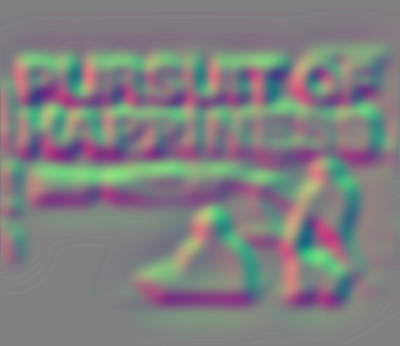
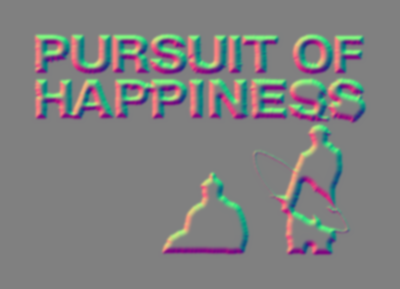
Lastra pulita: solo la scritta e i due surfisti, e una gobba che non esce
Il manifesto aveva dietro pennellate di rullo e un bordo sporco: in rilievo,
con una luce su tutta la lastra, diventavano rumore. stampa.py adesso lo
pulisce (soglia + apertura morfologica, con due eccezioni scritte a mano: la
tavola da surf, recuperata per contatto col surfista, e la pennellata scura
accanto alla figura seduta) e ritaglia il file sul disegno, con un margine.

La gobba non e' piu' un passa-alto della massa sfocata, che attorno a ogni
figura lasciava un anello letto come un contorno fantasma: e' una cupola
dentro ogni sagoma, fatta con la distanza dal bordo, che fuori vale zero.

La grana va a zero: col disegno pulito restava solo un gradino lungo i bordi,
e ogni lettera usciva ripassata due volte.

Claude-Session: https://claude.ai/code/session_01FjnANcQY1nRrzKsotf6svG

diff --git a/stampa.py b/stampa.py
@@ -15,9 +15,24 @@
    SMUSSO e' la larghezza del bordo dell'impronta: il fianco della lettera.
    Stretto = carta rigida, spigolo netto. Largo = carta morbida, bordo
    tondo. E' l'unica manopola che cambia davvero l'aria del risultato.
+
+   SOLO LA SCRITTA E I DUE SURFISTI. Il manifesto ha dietro pennellate di
+   rullo e un bordo sporco: in rilievo diventano rumore, una carta
+   grattata invece di una stampa. pulita() le toglie e lascia le sagome
+   piene. Le sagome sono nere piene, le pennellate grigie e sottili: una
+   soglia e un'apertura morfologica le separano quasi da sole. Restano due
+   eccezioni, scritte a mano qui sotto:
+     - la tavola del surfista e' un contorno sottile come una pennellata,
+       e l'apertura la cancellerebbe: si recupera a parte, per contatto col
+       surfista che la tiene;
+     - accanto alla figura seduta la pennellata e' scura quasi quanto lei:
+       li' la soglia sale.
+   Il file esce ritagliato sul disegno, con un margine: la misura scritta
+   in cape-dust.js (lastraDisegno) e' presa sul disegno, non sul file.
 """
 import numpy as np, os, sys
 from PIL import Image
+from scipy import ndimage as ndi
 from scipy.ndimage import gaussian_filter
 
 QUI   = os.path.dirname(os.path.abspath(__file__))
@@ -25,21 +40,80 @@ SRC   = os.path.join(QUI, 'stampa-src.jpg')
 LARGO = 1600
 
 SMUSSO  = 3.2    # larghezza del bordo dell'impronta, in px del file grande
-GRANA   = 0.55   # quanta della grana del rullo resta nel rilievo
-S_GOBBA = 26.0   # larghezza della gonfiatura sotto le masse
-ALTA    = 2.5    # via il piedistallo (vedi gobba.py)
-PIENO   = 0.030  # pendenza che riempie gli otto bit
+GRANA   = 0.0    # quanta della grana del rullo resta nel rilievo. A zero da
+                 # quando il disegno e' pulito: senza grana da conservare, restava
+                 # solo un gradino lungo i bordi, e in luce radente ogni lettera
+                 # usciva ripassata due volte, come a matita
+S_GOBBA = 26.0   # quanto e' largo il fianco della cupola, dal bordo verso dentro
+PIENO   = 0.2    # pendenza che riempie gli otto bit
 
-def inchiostro(box=None):
+MARGINE = 110    # aria attorno al disegno, in px della sorgente: la lastra
+                 # deve finire su carta liscia, o il bordo del file si legge
+                 # in luce radente come una riga dritta
+
+def disco(r):
+    y, x = np.ogrid[-r:r + 1, -r:r + 1]
+    return x * x + y * y <= r * r
+
+def pulita(ink):
+    """Le sagome piene (scritta, figura seduta, surfista con la tavola),
+       senza le pennellate del fondo ne' il bordo. Coordinate della
+       sorgente 1179x1022: se cambi manifesto, questi numeri non valgono."""
+    pieno = ink > 0.6
+    seduto = np.zeros_like(pieno); seduto[600:900, 380:760] = True
+    pieno = np.where(seduto, ink > 0.8, pieno)
+
+    aperto = ndi.binary_opening(pieno, structure=disco(6))
+    lab, n = ndi.label(aperto)
+    tieni = np.zeros(n + 1, bool)
+    for i, sl in enumerate(ndi.find_objects(lab), 1):
+        area = (lab[sl] == i).sum()
+        h = sl[0].stop - sl[0].start; w = sl[1].stop - sl[1].start
+        # fra la scritta (sopra 470) e le figure (sotto 610) ci sono solo pennellate
+        fascia = sl[0].start > 470 and sl[0].stop < 610
+        if area > 1500 and h > 25 and w / h < 3.5 and not fascia:
+            tieni[i] = True
+    sagome = tieni[lab]
+
+    # i bordi ruvidi delle lettere tornano, le pennellate attaccate no
+    m = sagome.copy()
+    for _ in range(3):
+        m = ndi.binary_dilation(m) & pieno
+
+    # la tavola: il contorno sottile attaccato al surfista
+    box = np.zeros_like(pieno); box[552:830, 750:1075] = True
+    lf, _ = ndi.label((ink > 0.5) & box)
+    ids = np.unique(lf[sagome & box]); ids = ids[ids > 0]
+    tavola = np.isin(lf, ids)
+    tavola[676:712, 750:808] = False      # l'orizzonte che la attraversa
+    m |= tavola
+
+    # i buchini dentro le lettere: in rilievo sarebbero crateri
+    buchi = ndi.binary_fill_holes(m) & ~m
+    lb, nb = ndi.label(buchi)
+    area = ndi.sum(buchi, lb, range(1, nb + 1))
+    m |= np.isin(lb, np.where(area < 500)[0] + 1)
+    return m
+
+def inchiostro():
     im = Image.open(SRC).convert('L')
-    if box: im = im.crop(box)
-    a = im.resize((LARGO, int(round(LARGO * im.height / im.width))), Image.LANCZOS)
-    ink = 1.0 - np.asarray(a).astype(np.float32) / 255.0
-    # la carta non e' mai bianca pura in una scansione: si toglie il fondo
-    return np.clip((ink - 0.06) / 0.88, 0, 1)
+    ink = 1.0 - np.asarray(im).astype(np.float32) / 255.0
+    # il margine puo' uscire dalla sorgente (a sinistra il disegno e' a 61 px
+    # dal bordo): fuori e' carta, quindi si aggiunge carta
+    m = np.pad(pulita(ink), MARGINE)
+    ys, xs = np.where(m)
+    x0 = xs.min() - MARGINE; x1 = xs.max() + 1 + MARGINE
+    y0 = ys.min() - MARGINE; y1 = ys.max() + 1 + MARGINE
+    # quanta parte dell'immagine e' disegno: cape-dust.js misura la lastra
+    # sul disegno, non sul margine (lastraDisegno)
+    print('disegno %.3f x %.3f dell\'immagine' % ((xs.max() + 1 - xs.min()) / (x1 - x0),
+                                               (ys.max() + 1 - ys.min()) / (y1 - y0)))
+    m = Image.fromarray((m[y0:y1, x0:x1] * 255).astype(np.uint8))
+    a = m.resize((LARGO, int(round(LARGO * m.height / m.width))), Image.LANCZOS)
+    return np.asarray(a).astype(np.float32) / 255.0
 
-def scrivi(nome, box=None):
-    ink = inchiostro(box)
+def scrivi(nome):
+    ink = inchiostro()
     H, W = ink.shape
 
     # ——— la lastra: l'inchiostro alzato, col suo smusso ———
@@ -50,10 +124,17 @@ def scrivi(nome, box=None):
     Image.fromarray(np.clip(np.rint(mappa * 255), 0, 255).astype(np.uint8)) \
          .save(os.path.join(QUI, nome + '.png'), optimize=True)
 
-    # ——— la gobba: la gonfiatura larga sotto le masse ———
-    massa = gaussian_filter(ink, S_GOBBA, mode='nearest')
-    massa = (massa / max(massa.max(), 1e-6)) ** 0.75
-    massa = massa - gaussian_filter(massa, S_GOBBA * ALTA, mode='nearest')
+    # ——— la gobba: il volume DENTRO le sagome ———
+    # Una cupola in ogni sagoma: sale dal bordo verso l'interno per S_GOBBA
+    # pixel e poi resta piana, e fuori vale zero. Prima era la massa sfocata
+    # meno una sua sfocatura piu' larga, e quel passa-alto lasciava attorno a
+    # ogni figura un anello: finche' la luce era un cerchio attorno al mouse
+    # si notava poco, con una luce su tutta la lastra si leggeva come un
+    # contorno fantasma. Una cupola fatta con la distanza dal bordo non puo'
+    # uscire dalla sagoma, per costruzione.
+    dentro = ndi.distance_transform_edt(ink > 0.5)
+    massa = np.sin(np.minimum(dentro / S_GOBBA, 1.0) * np.pi / 2)
+    massa = gaussian_filter(massa, 1.5, mode='nearest') * 2.0 - 1.0
     w, h = W // 4, H // 4
     p = np.asarray(Image.fromarray(np.clip((massa * 0.5 + 0.5) * 255, 0, 255).astype(np.uint8))
                    .resize((w, h), Image.LANCZOS)).astype(np.float32) / 255.0
@@ -79,6 +160,4 @@ def scrivi(nome, box=None):
              os.path.getsize(os.path.join(QUI, nome + '-nera.png')) // 1024))
     return W, H
 
-im = Image.open(SRC)
-scrivi('stampa')                                                  # tutto: testo + sagome
-scrivi('sagome', (0, int(im.height * .43), im.width, im.height))  # solo la fascia bassa
+scrivi('stampa')

diff --git a/README.md b/README.md
@@ -30,18 +30,29 @@ disegna non e' qui: sta in `cape-dust.js`, nella repo `transition`.
 > suoi punti d'atterraggio sono stati cancellati: stanno nella storia di git,
 > al commit `cade712`.
 
-## Come funziona adesso, in tre righe
+> **2026-09-22, sera — il raduno se ne va anche lui.** I pixel che si
+> radunavano al centro erano un secondo movimento sopra l'espansione, e si
+> vedeva; e il bianco che facevano era granuloso, pieno di buchi neri. Adesso
+> nessun pixel cambia strada.
 
-Una parte dei pixel della dust — la meta' circa — invece di andare dritta per
-sempre riceve una **destinazione** dentro un disco al centro dello schermo. Si
-radunano, si addossano, e la loro luce sommata satura in bianco pieno: e' cosi'
-che nasce la pagina su cui la stampa viene impressa. Chi va piu' vicino al
-centro arriva prima, quindi il bianco non compare, **fiorisce** dal mezzo verso
-fuori. La goffratura si disegna subito dopo di loro, nello stesso fotogramma e
-nello stesso contesto, perche' e' un'**ombra** e un'ombra ha bisogno di
-qualcosa sotto su cui posarsi.
+## Come funziona adesso
 
-Tutte le manopole stanno in cima a `cape-dust.js`, sotto `posa*` e `lastra*`.
+Nessun diamante cambia strada. Quelli che in un certo istante stanno dentro
+una forma al centro dello schermo — una superellisse, un'ellisse un po'
+squadrata — si **gonfiano e si accendono** finche' si fondono in bianco
+pieno; verso fuori si sfaldano, perche' ognuno ha la sua soglia sorteggiata.
+La forma parte da un punto e si allarga, quindi il bianco **fiorisce** dal
+mezzo. Sotto di loro c'e' una carta bianca che tappa i buchi, solo dove sono
+gia' fusi.
+
+Dentro quel bianco la stampa si **incide a pressione**: compare tutta
+insieme, prima appena accennata, poi sempre piu' profonda. Si legge sempre
+tutta, per una luce radente che gira piano; il mouse ci aggiunge la sua luce
+e la inclina di qualche grado. Alla fine il bianco si allarga fino ai bordi e
+la lastra torna piatta.
+
+Mentre succede, l'espansione non si ferma: rallenta. Tutte le manopole stanno
+in cima a `cape-dust.js`, sotto `lento*`, `bianco*`, `pieno*` e `lastra*`.
 
 ## I file
 
@@ -51,7 +62,7 @@ Tutte le manopole stanno in cima a `cape-dust.js`, sotto `posa*` e `lastra*`.
 | `stampa-gobba.png` | la PENDENZA del volume, gia' derivata, a un quarto di lato |
 | `stampa-nera.png` | la stampa piatta, se un domani serve senza rilievo |
 | `stampa-src.jpg` | il manifesto sorgente |
-| `stampa.py` | rigenera le tre immagini dal manifesto |
+| `stampa.py` | pulisce il manifesto e rigenera le tre immagini |
 | `cape-rilievo.js` | il vecchio: due nomi e il surfista. Non piu' caricato |
 | `gobba.py` | il volume del vecchio surfista, da `superficie.png` |
 
@@ -66,6 +77,18 @@ Se le rigeneri, aggiorna quello SHA la' dentro.
 python3 stampa.py     # goffratura, gobba e stampa piatta
 ```
 Serve `pillow`, `numpy`, `scipy`. Se cambi il file sorgente, cambia `SRC`.
+
+Si incide **solo la scritta e i due surfisti**: `pulita()` toglie le
+pennellate del fondo e il bordo sporco, che in rilievo diventano rumore. Lo fa
+con una soglia e un'apertura morfologica, piu' due eccezioni scritte con le
+coordinate della sorgente (la tavola da surf, la pennellata accanto alla
+figura seduta): **con un manifesto nuovo quelle coordinate non valgono piu'**.
+
+Il file esce ritagliato sul disegno, con un margine. Lo script stampa quanta
+parte dell'immagine e' disegno (`disegno 0.827 x 0.761`): se rigeneri, ricopia
+quei due numeri in `lastraDisegno` dentro `cape-dust.js`, e anche il formato
+in `lastraFormato`. La misura a schermo della lastra, e del bianco attorno, si
+prende sul disegno.
 
 ## Le due cose che non si deducono leggendo il codice
 
